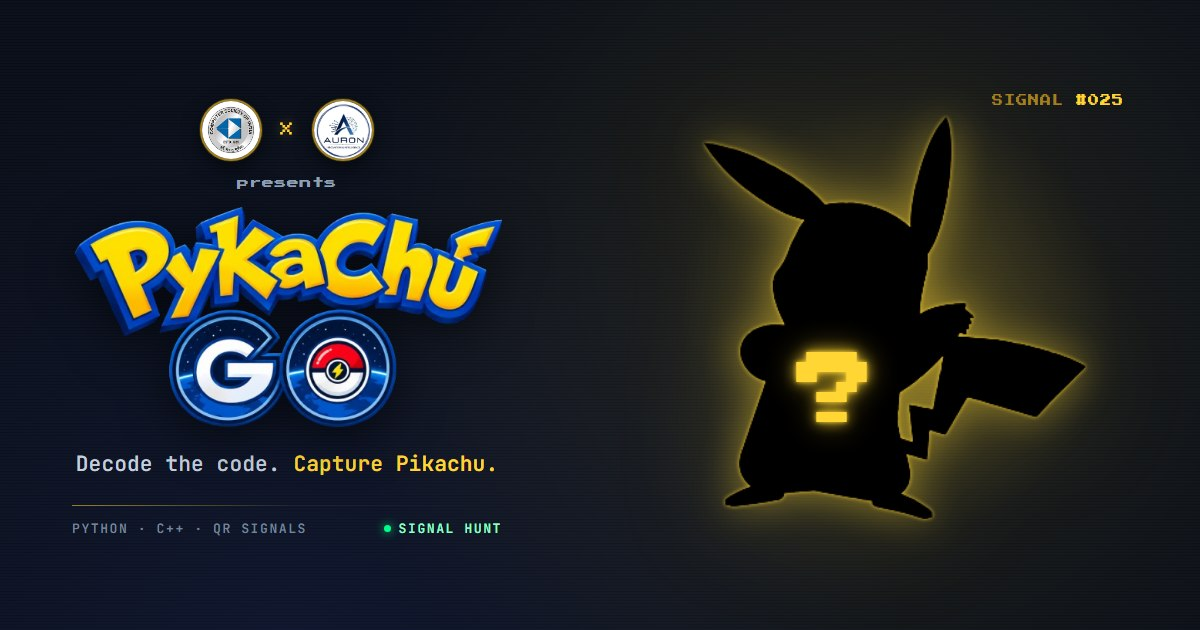
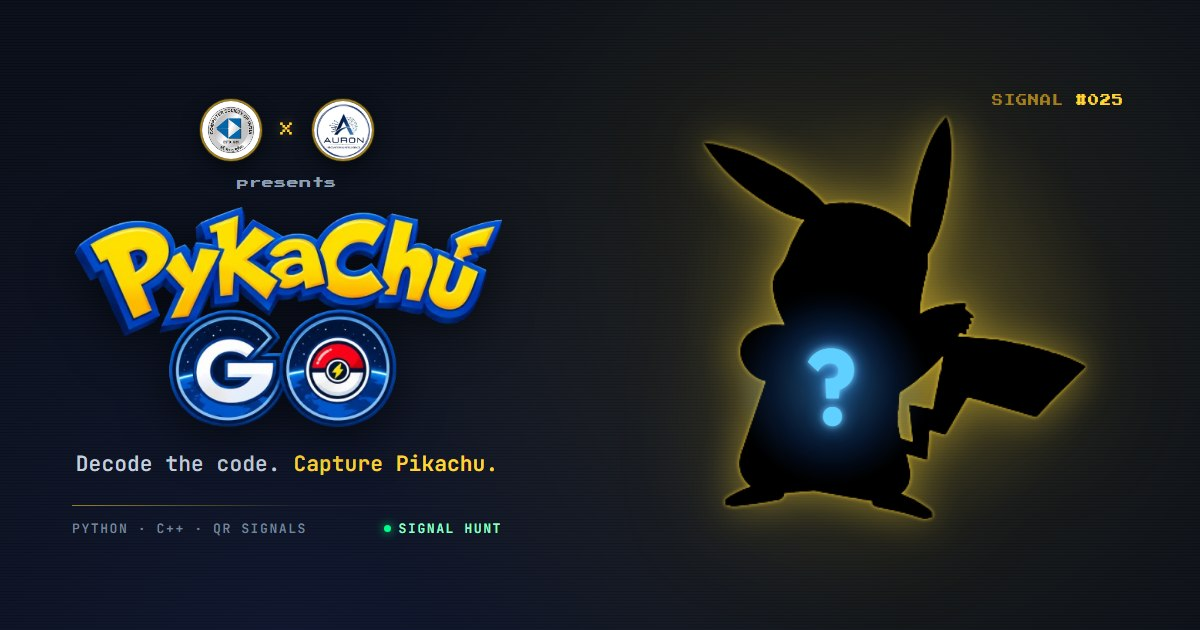
Use a normal-font question mark with a blue glow on the social card

Changed region(s): [[0.6167, 0.4825, 0.7708, 0.754]]

diff --git a/scripts/og-card.html b/scripts/og-card.html
@@ -15,7 +15,7 @@
     <link rel="preconnect" href="https://fonts.gstatic.com" crossorigin>
 
     <link rel="stylesheet"
-        href="https://fonts.googleapis.com/css2?family=Press+Start+2P&family=JetBrains+Mono:wght@400;500;600&display=swap">
+        href="https://fonts.googleapis.com/css2?family=Press+Start+2P&family=JetBrains+Mono:wght@400;500;600&family=Outfit:wght@600;700&display=swap">
 
     <style>
         :root {
@@ -32,6 +32,11 @@
             --pixel: 'Press Start 2P',
                 'Courier New',
                 monospace;
+
+            --sans: 'Outfit',
+                'Segoe UI',
+                Arial,
+                sans-serif;
         }
 
         * {
@@ -352,11 +357,10 @@
         }
 
         /* =========================================================
-           YELLOW QUESTION MARK
+           QUESTION MARK
            
-           Positioned directly over the Pikachu body.
-           Adjust top / left if the source PNG has different
-           transparent padding.
+           A normal (non-pixel) bold sans glyph with a blue glow,
+           positioned over the Pikachu body.
         ========================================================= */
 
         .question-mark {
@@ -367,32 +371,61 @@
               artwork has transparent padding, one ear sits top-right and the
               tail pulls mass to the bottom-right. Measured on pikachu.png, the
               thick lower-left body lobe sits around 33% / 67% of the image.
-              The +5.5px offsets cancel the Press Start 2P "?" ink bearing at
-              80px, so the glyph ink - not its em box - lands on that point.
+              The sub-pixel offsets correct the Outfit "?" ink bearing so the
+              glyph ink - not its box - lands on that point.
             */
             left: 33%;
             top: 67%;
 
-            transform: translate(calc(-50% + 5.5px), calc(-50% + 5.5px));
+            transform: translate(calc(-50% + 0.5px), calc(-50% + 1px));
 
             z-index: 5;
 
-            font-family: var(--pixel);
+            font-family: var(--sans);
 
-            font-size: 80px;
+            font-size: 104px;
+
+            font-weight: 700;
 
             line-height: 1;
 
-            color: var(--gold);
+            color: #5fd0ff;
 
             text-shadow:
-                0 0 4px rgba(255, 214, 51, 0.95),
-                0 0 14px rgba(255, 214, 51, 0.85),
-                0 0 30px rgba(255, 214, 51, 0.55);
+                0 0 6px rgba(120, 214, 255, 0.95),
+                0 0 18px rgba(70, 170, 255, 0.85),
+                0 0 44px rgba(40, 130, 255, 0.60);
 
             pointer-events: none;
 
             user-select: none;
+        }
+
+        /* Soft blue aura behind the glyph so the glow reads at thumbnail size,
+           where a plain text-shadow is too tight to be seen. */
+        .question-mark::before {
+            content: '';
+
+            position: absolute;
+            left: 50%;
+            top: 50%;
+
+            width: 200px;
+            height: 200px;
+
+            transform: translate(-50%, -50%);
+
+            border-radius: 50%;
+
+            background:
+                radial-gradient(circle,
+                    rgba(70, 175, 255, 0.38),
+                    rgba(40, 125, 255, 0.16) 44%,
+                    transparent 68%);
+
+            filter: blur(3px);
+
+            z-index: -1;
         }
 
         /* =========================================================
